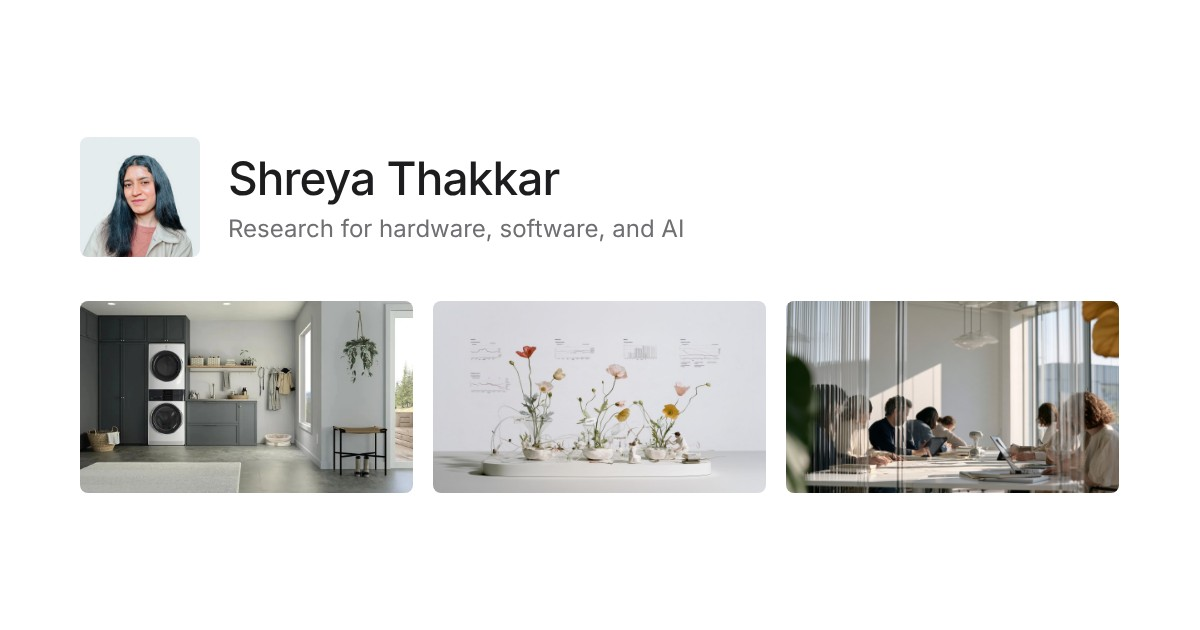
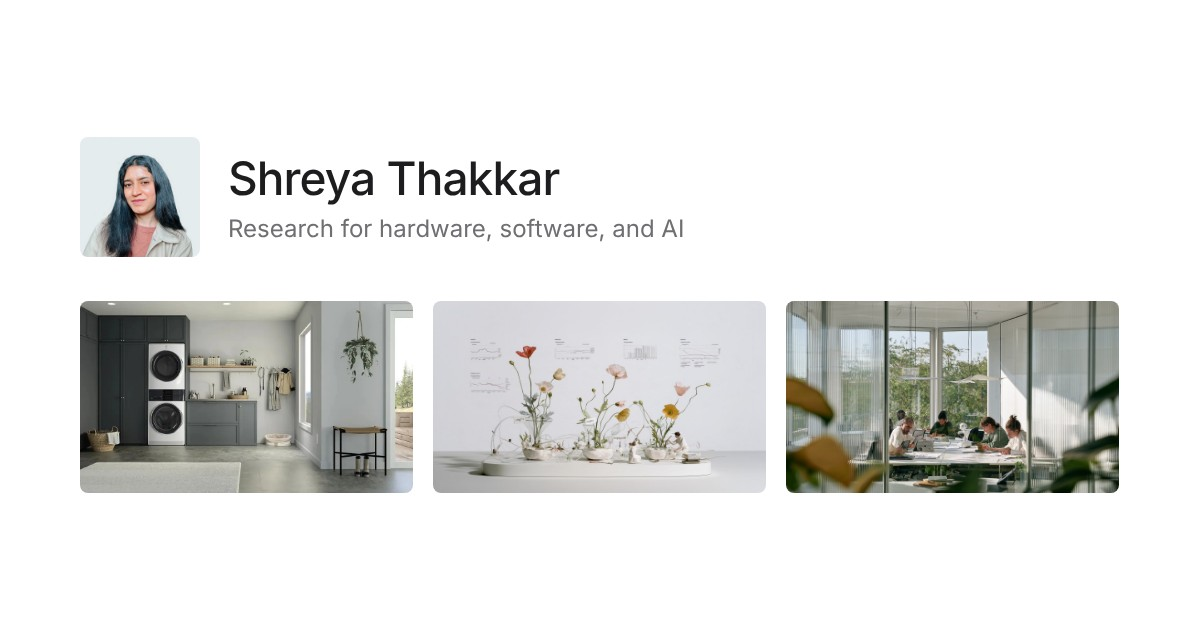
Learning with AI in 2045: new card image (robot at the table), link preview updated
Claude-Session: https://claude.ai/code/session_01Lm7r7cV3HyFpYTXVTJFEe1

Changed region(s): [[0.6475, 0.4524, 0.9558, 0.7841]]

diff --git a/independent-research.html b/independent-research.html
@@ -133,7 +133,7 @@ footer .sig span{font-family:'Over the Rainbow',cursive;font-size:14px;color:#3a
   <section id="work" aria-label="Independent research">
     <div class="work">
       <a class="card" href="projects/productive-friction.html">
-        <span class="thumb thumb-photo"><img src="images/card-learning-2045.jpg?v=2" alt="" loading="lazy"></span>
+        <span class="thumb thumb-photo"><img src="images/card-learning-2045.jpg?v=3" alt="" loading="lazy"></span>
         <div class="body">
           <p class="eb">Education</p><h3>Learning with AI in 2045</h3>
           <p>Imagining embodied AI beyond chatbots.</p>

diff --git a/index.html b/index.html
@@ -187,7 +187,7 @@ footer .sig span{font-family:'Over the Rainbow',cursive;font-size:14px;color:#3a
     <h2 class="org">Independent research</h2>
     <div class="work">
       <a class="card" href="projects/productive-friction.html">
-        <span class="thumb thumb-photo"><img src="images/card-learning-2045.jpg?v=2" alt="" loading="lazy"></span>
+        <span class="thumb thumb-photo"><img src="images/card-learning-2045.jpg?v=3" alt="" loading="lazy"></span>
         <div class="body">
           <p class="eb">Education</p><h3>Learning with AI in 2045</h3>
           <p>Imagining embodied AI beyond chatbots.</p>
